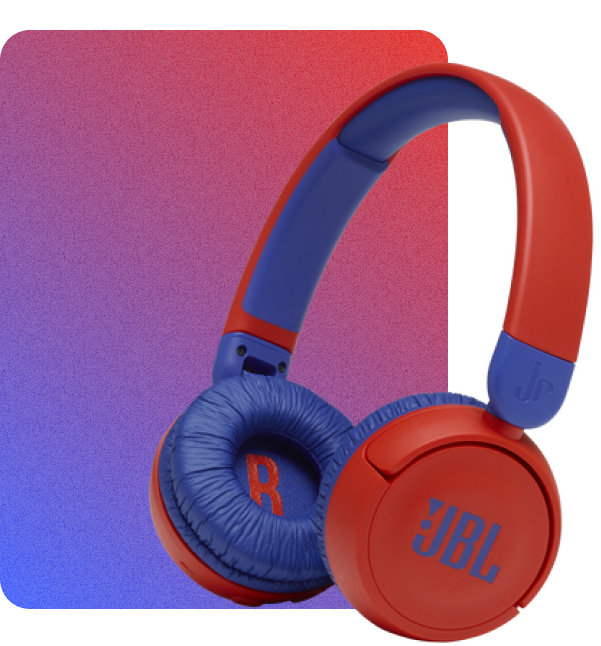
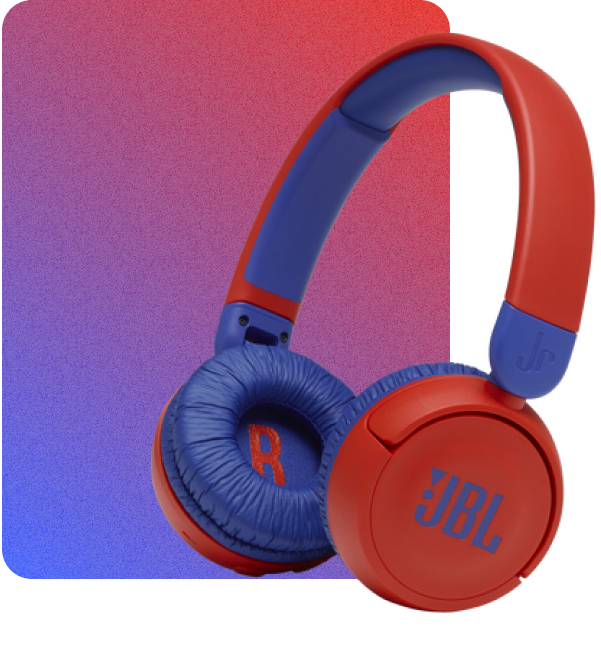
Animações
Criei a animação do temporizador e da troca de cores do JBL Children.

diff --git a/src/components/ChildrenComponent.vue b/src/components/ChildrenComponent.vue
@@ -13,7 +13,7 @@
             <div class="colors">
                 <p class="color-opt">Color Options</p>
                 <button type="button" id="red-btn"><img src=""></button>
-                <button type="button" id="pink-btn"><img src=""></button>
+                <button type="button" id="pink-btn" class="selected"><img src=""></button>
             </div>
             <div class="price">
                 <p class="money-sign">$</p>
@@ -32,23 +32,37 @@
 </template>
 
 <script>
- document.addEventListener('DOMContentLoaded', () => {
+document.addEventListener('DOMContentLoaded', () => {
     const redButton = document.getElementById('red-btn');
     const pinkButton = document.getElementById('pink-btn');
-    
     const redImage = document.getElementById('red-hp');
     const pinkImage = document.getElementById('pink-hp');
 
-    redButton.addEventListener('click', function() {
-        redImage.style.display = 'block';  
-        pinkImage.style.display = 'none';  
+    function changeImage(showImage, hideImage) {
+        hideImage.style.display = 'none';
+        
+        showImage.style.display = 'block';
+        showImage.classList.add('slide-in');
+        setTimeout(() => showImage.classList.remove('slide-in'), 500);
+    }
+
+    function selectButton(selectedBtn, otherBtn) {
+        selectedBtn.classList.add('selected');
+        otherBtn.classList.remove('selected');
+    }
+
+    redButton.addEventListener('click', () => {
+        changeImage(redImage, pinkImage);
+        selectButton(redButton, pinkButton);
     });
 
-    pinkButton.addEventListener('click', function() {
-        redImage.style.display = 'none';   
-        pinkImage.style.display = 'block'; 
+    pinkButton.addEventListener('click', () => {
+        changeImage(pinkImage, redImage);
+        selectButton(pinkButton, redButton);
     });
- });
+});
+
+
 
 </script>
 
@@ -67,12 +81,66 @@
     gap: 80px;
 }
 
+.hp-img img{
+    transition: transform 0.5s ease, opacity 0.5s ease;
+}
+
+.colors button {
+    position: relative;
+    width: 60px;
+    height: 60px;
+    border: none;
+    background-size: cover;
+    border-radius: 50%;
+    cursor: pointer;
+}
+
+.colors button::after {
+    content: "✔";
+    position: absolute;
+    top: -10px;
+    right: -10px;
+    width: 20px;
+    height: 20px;
+    border-radius: 50%;
+    background-color: white;
+    color: green;
+    display: none;
+    justify-content: center;
+    align-items: center;
+    font-size: 12px;
+}
+
+.colors button.selected::after {
+    display: flex;
+}
+
+.slide-in {
+    display: block;
+    animation: slideUpIn 0.5s forwards;
+}
+
+@keyframes slideUpIn {
+    from {
+        opacity: 0;
+        transform: translateY(100%);
+    }
+    to {
+        opacity: 1;
+        transform: translateY(0);
+    }
+}
+
 #red-hp {
     display: none;
+    margin: 0px;
+    padding: 0px;
 }
 
 #pink-hp {
-    display: block; 
+    display: block;
+    margin: 0px;
+    padding: 0px; 
 }
 
 .hp-info{
@@ -136,14 +204,7 @@
 #red-btn:hover, #pink-btn:hover {
     cursor: pointer;
     filter: brightness(90%);
-    transition: 0.5ms ease-in-out;
 }
-/* #red-btn:enabled{
-    background-image: url(../assets/Check.svg);
-    background-position: center;
-    background-size: contain;
-    filter: opacity(30%);
-} */
 
 #pink-btn{
     background-image: url(../assets/pink-button.svg);

diff --git a/src/components/PromoCardComponent.vue b/src/components/PromoCardComponent.vue
@@ -43,7 +43,7 @@
         const minutes = document.getElementById('minutes');
         const seconds = document.getElementById('seconds');
 
-        const finalDate = new Date('September 23 2024 00:00:00');
+        const finalDate = new Date('October 15 2024 00:00:00');
 
         function updateCountdown() {
             const currentTime = new Date();
@@ -53,10 +53,24 @@
             const m = Math.floor(diff / 1000 / 60) % 60;
             const s = Math.floor(diff / 1000) % 60;
 
-            hours.innerHTML = h < 10 ? '0' + h : h;
-            minutes.innerHTML = m < 10 ? '0' + m : m;
-            seconds.innerHTML = s < 10 ? '0' + s : s;
+            updateNumber(hours, h);
+            updateNumber(minutes, m);
+            updateNumber(seconds, s);
         }
+
+        function updateNumber(element, newValue) {
+            const currentValue = parseInt(element.innerHTML, 10);
+            const formattedValue = newValue < 10 ? '0' + newValue : newValue; 
+
+            if (currentValue !== newValue) {
+                element.innerHTML = formattedValue;
+                element.classList.add('slide-in');
+                
+                setTimeout(() => {
+                    element.classList.remove('slide-in');
+                }, 500);
+            }
+    }
 
         setInterval(updateCountdown, 1000);
     });
@@ -102,7 +116,7 @@ h1{
     flex-direction: row;
     align-items: center;
     justify-content: space-between;
-    max-width: 600px;
+    width: 600px;
     margin-bottom: 20px;
 }
 
@@ -111,7 +125,22 @@ h1{
     flex-direction: column;
     justify-content: center;
     align-items: center;
-    max-height: 160px;
+    height: 160px;
+}
+
+.slide-in {
+    animation: slideUpIn 0.5s forwards;
+}
+
+@keyframes slideUpIn {
+    from {
+        opacity: 0;
+        transform: translateY(50%);
+    }
+    to {
+        opacity: 1;
+        transform: translateY(0);
+    }
 }
 
 h2{
@@ -121,6 +150,9 @@ h2{
     font-size: 127px;
     font-weight: 500;
     margin: 0;
+    display: inline-block;
+    text-align: center;
+    width: 230px;
 }
 
 .timer-name {
